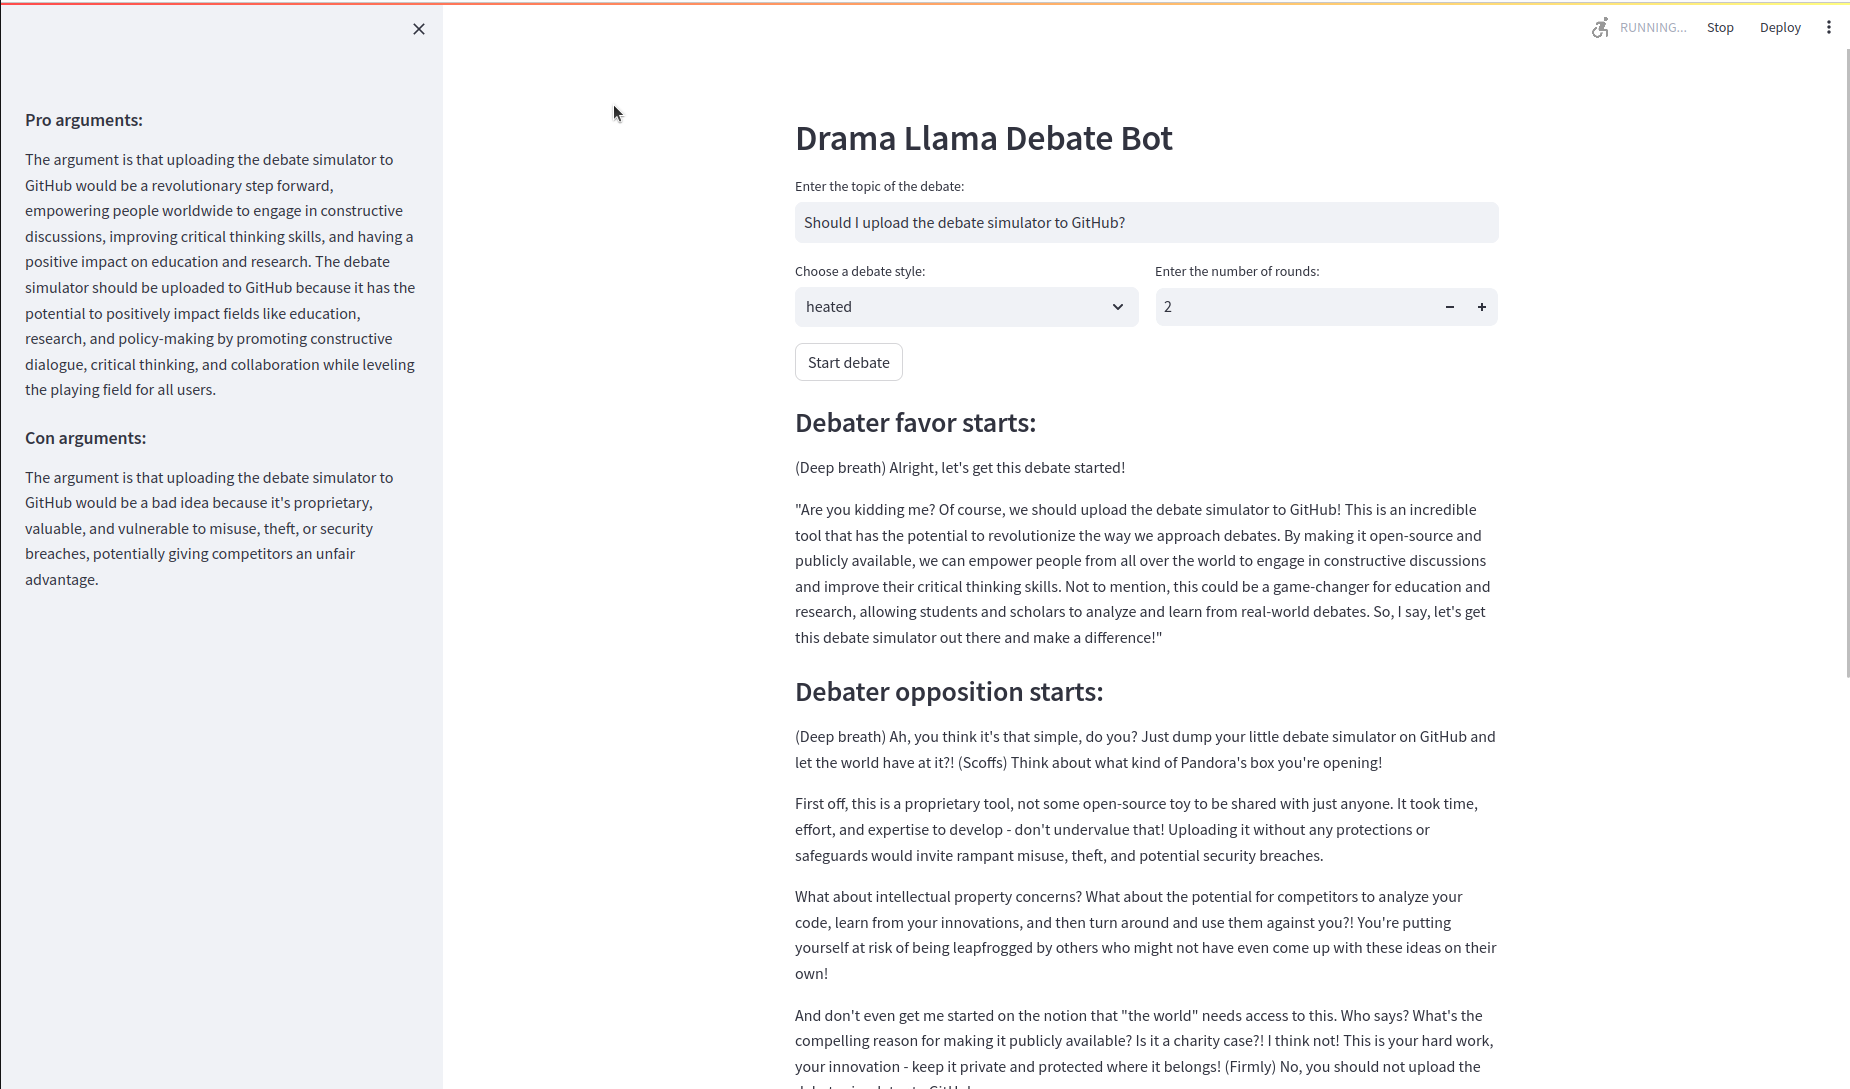
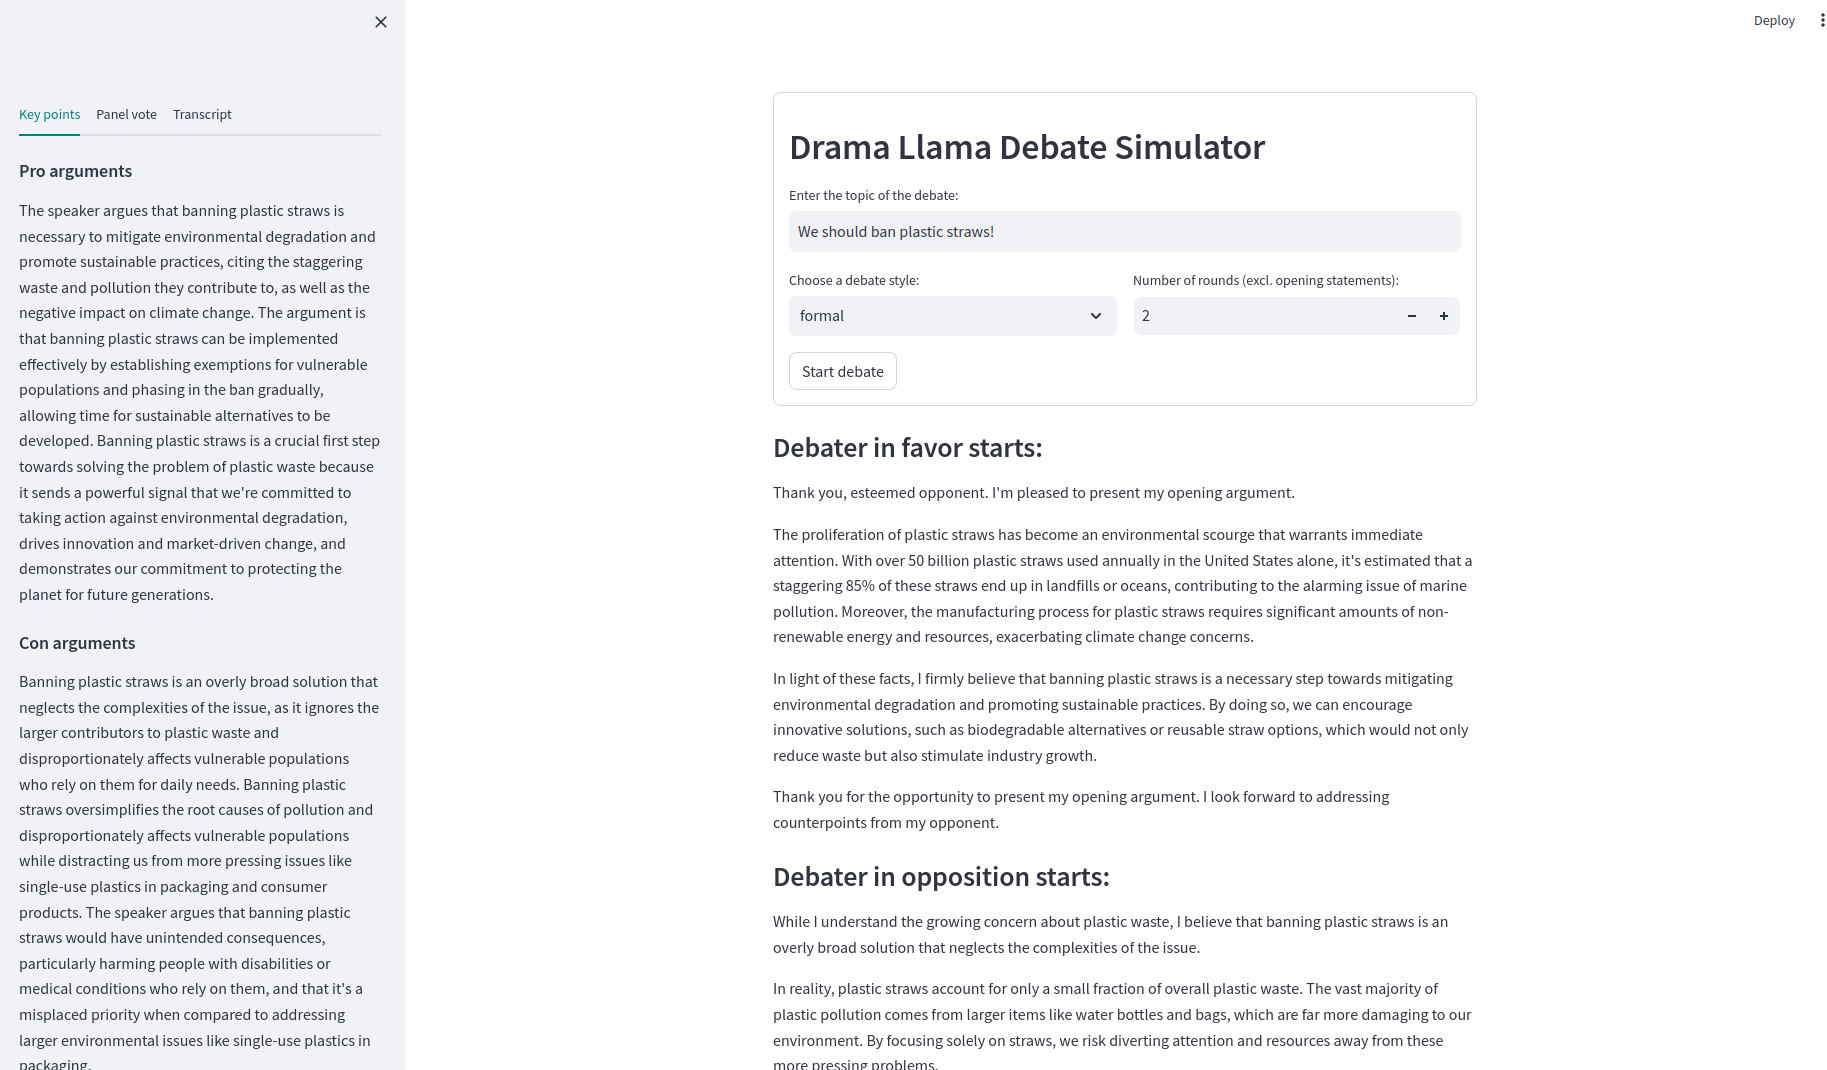
Changed image

diff --git a/main.py b/main.py
@@ -16,7 +16,7 @@ debate_stage = st.container(border = False)
 sidebar = st.sidebar
 
 ## Input form
-form.header("Drama Llama Debate Bot")
+form.header("Drama Llama Debate Simulator")
 user_input_debate_topic = form.text_input("Enter the topic of the debate: ")
 col1, col2 = form.columns(2)
 
